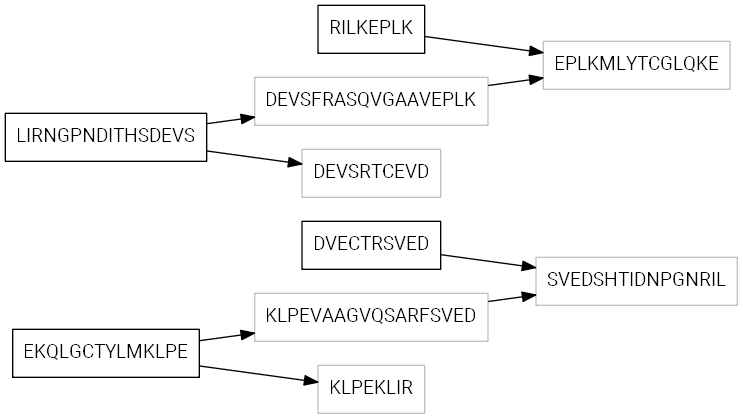
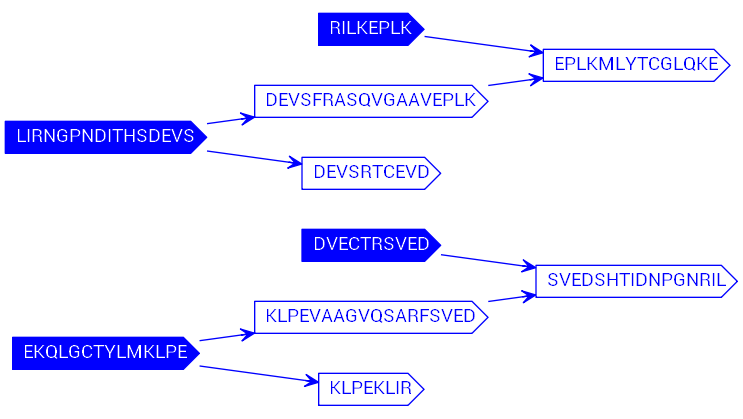
Worked on the style

diff --git a/Main.cs b/Main.cs
@@ -839,13 +839,13 @@ namespace AssemblyNameSpace
 
             // Generate a dot file to use in graphviz
 
-            Console.WriteLine("digraph {\n\tnode [fontname=\"Roboto\", shape=cds];\n\tgraph [rankdir=\"LR\"];\n\t edge [arrowhead=vee];\n");
+            Console.WriteLine("digraph {\n\tnode [fontname=\"Roboto\", shape=cds, fontcolor=\"blue\", color=\"blue\"];\n\tgraph [rankdir=\"LR\"];\n\t edge [arrowhead=vee, color=\"blue\"];\n");
 
             for (int i = 0; i < condensed_graph.Count(); i++) {
                 if (condensed_graph[i].BackwardEdges.Count() > 0) {
                     Console.WriteLine($"\ti{i} [label=\"" + AminoAcid.ArrayToString(condensed_graph[i].Sequence.ToArray()) + "\"]");
                 } else {
-                    Console.WriteLine($"\ti{i} [label=\"" + AminoAcid.ArrayToString(condensed_graph[i].Sequence.ToArray()) + "\", style=filled, fillcolor=\"grey\", color=\"grey\"]");
+                    Console.WriteLine($"\ti{i} [label=\"" + AminoAcid.ArrayToString(condensed_graph[i].Sequence.ToArray()) + "\", style=filled, fillcolor=\"blue\", fontcolor=\"white\"]");
                 }
                 foreach (var fwe in condensed_graph[i].ForwardEdges) {
                     Console.WriteLine($"\ti{i} -> i{fwe}");
